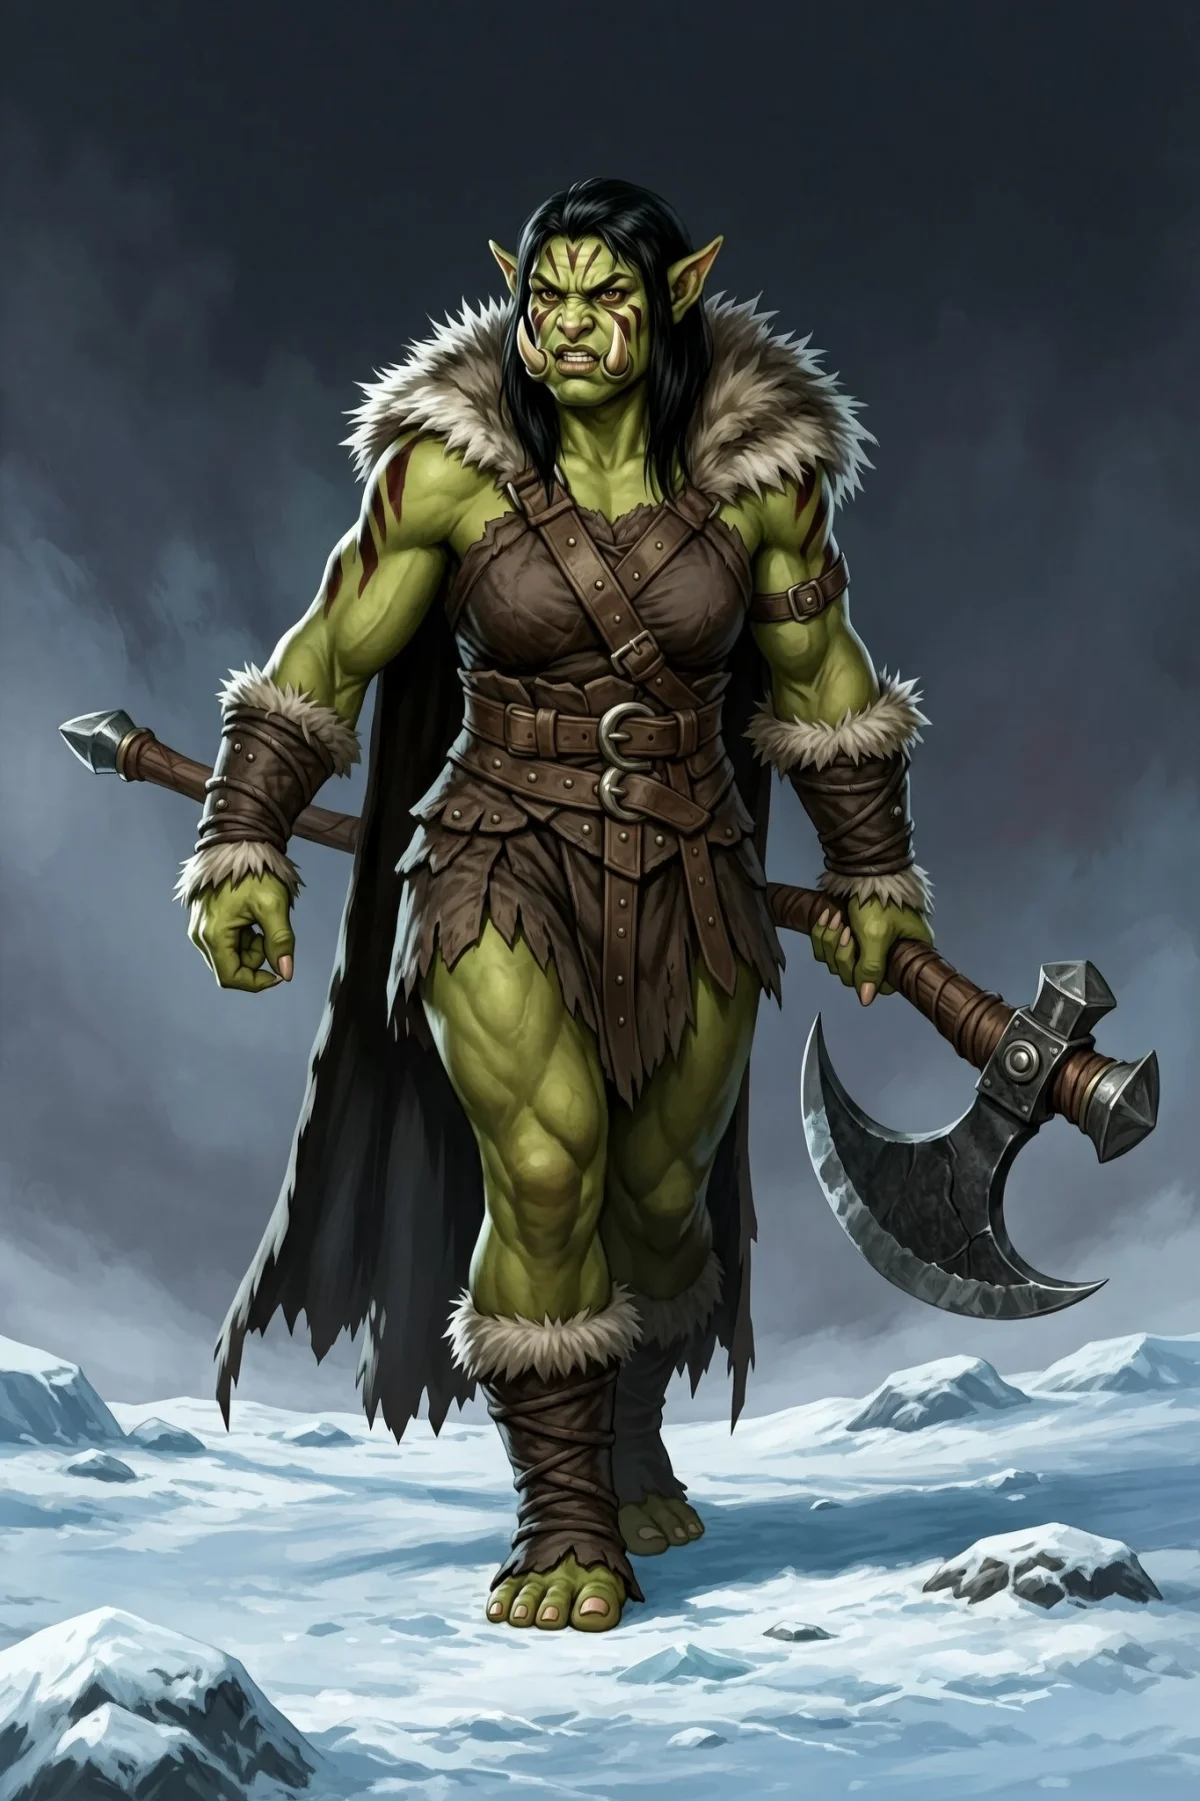
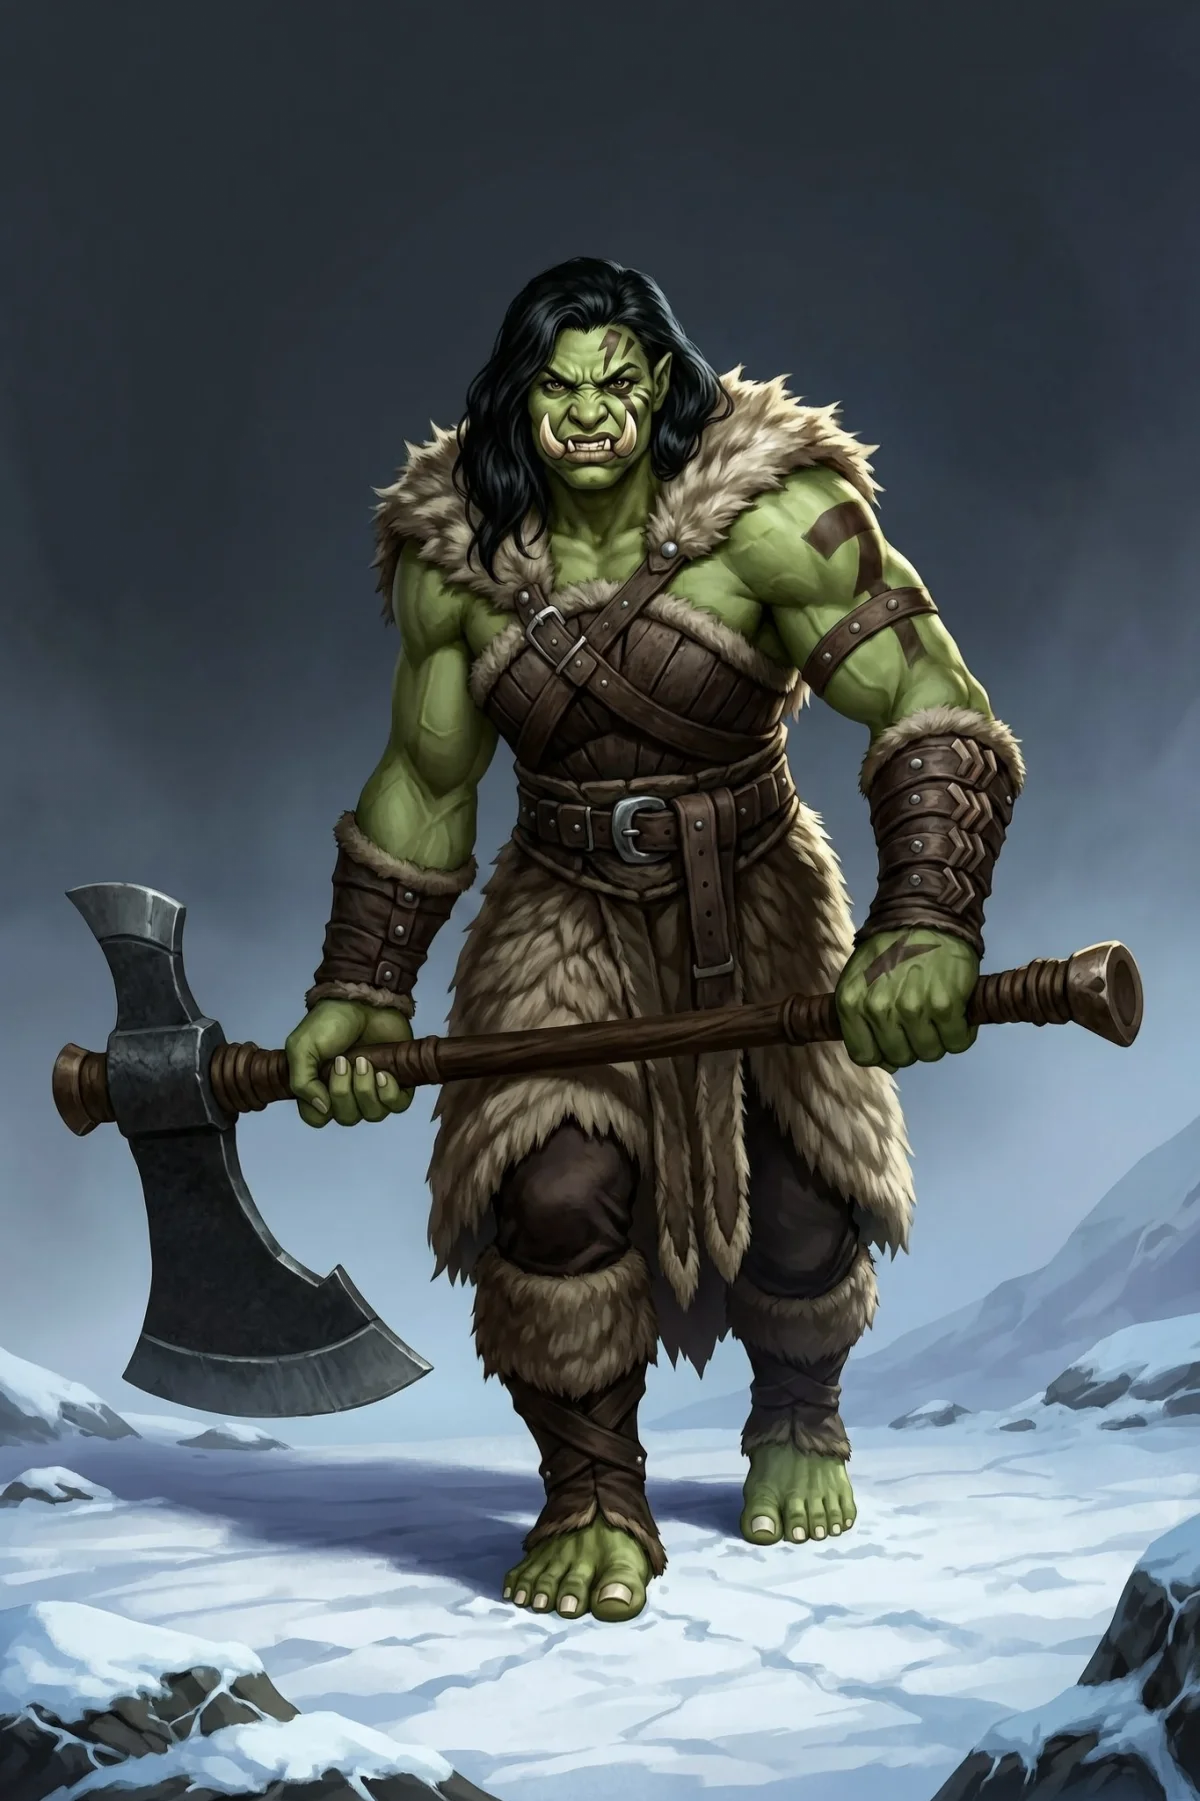
Run 3: Orc Barbarian, fully clothed at last

diff --git a/public/gallery/orc-barbarian/index.html b/public/gallery/orc-barbarian/index.html
@@ -27,8 +27,8 @@
 
   <main class="character">
     <figure class="character-img">
-      <img src="/gallery/img/12-orc-barbarian-full.webp" width="1200" height="1801" alt="AI-generated concept art of a muscular green-skinned orc woman with black hair, tusks and red war paint, wearing fur-trimmed leather and a dark cloak, carrying a double-bladed greataxe across a frozen tundra">
-      <figcaption><a href="/gallery/original/12-orc-barbarian.png">View original file</a> (PNG, 3.6 MB): the full-size image exactly as downloaded from OpenMov, before it was resized for the web.</figcaption>
+      <img src="/gallery/img/12-orc-barbarian-full.webp" width="1200" height="1801" alt="AI-generated concept art of a muscular green-skinned orc woman with long black hair, tusks and war paint, wearing a fur mantle, a leather chest harness and a fur skirt, carrying a double-bladed greataxe barefoot across a frozen tundra">
+      <figcaption><a href="/gallery/original/12-orc-barbarian.png">View original file</a> (PNG, 3.4 MB): the full-size image exactly as downloaded from OpenMov, before it was resized for the web.</figcaption>
     </figure>
 
     <div class="panel character-info">
@@ -39,19 +39,19 @@
       </div>
 
       <h2>How it turned out</h2>
-      <p class="note">Fierce expression, tusks, war paint and a huge double-bladed greataxe against a dark sky. WAN drew the cloak and fur trim well, but the gauntlets became fur-trimmed bracers, and she is striding barefoot across the frozen tundra with her toes in the snow.</p>
+      <p class="note">Third time lucky. The first two run-3 attempts came out bare-chested, ignoring both &#x27;female&#x27; and the leather armour, so the builder&#x27;s Barbarian description now asks for a fully covered torso. This version has the fur mantle, a leather chest harness, tusks, war paint and a huge double-bladed greataxe held across her body. WAN still insisted on bare feet in the snow, as it did in every attempt.</p>
 
       <h2>The prompt</h2>
       <pre class="prompt" id="prompt">Generate an image.
 
 SUBJECT
-An adult, muscular female orc with prominent tusks, a heavy brow, and a broad, powerful build, portrayed as a barbarian, with furs, bare muscular arms, war paint, and a wild, untamed look. A fantasy tabletop RPG character.
+An adult, muscular female orc with prominent tusks, a heavy brow, and a broad, powerful build, portrayed as a barbarian, draped in a heavy fur mantle, torso fully covered by their armour or clothing, with powerful arms, war paint, and a fierce, untamed look. A fantasy tabletop RPG character.
 
 APPEARANCE
 hair: black, eyes: brown, skin: green, expression: fierce.
 
 GEAR
-wearing leather, carrying greataxe, accessories: cloak, gauntlets.
+wearing leather armour, carrying a massive two-handed greataxe with a long haft and a broad, heavy blade, accessories: cloak, gauntlets.
 
 SCENE
 Framing: full-body shot, the entire character visible from head to toe. Pose: mid-action. Setting: frozen tundra. Lighting: dramatic side light.
@@ -65,7 +65,7 @@ A single character, clearly the focus of the image. Correct anatomy with natural
         <a class="button" href="/?ruleset=Generic+Fantasy&amp;ancestry=Orc&amp;class=Barbarian&amp;gender=Female&amp;age=Adult&amp;build=Muscular&amp;hair=Black&amp;eyes=Brown&amp;skin=Green&amp;expression=Fierce&amp;weapon=Greataxe&amp;armour=Leather&amp;accessories=Gauntlets%2CCloak&amp;framing=Full+body&amp;setting=Frozen+tundra&amp;lighting=Dramatic+side+light&amp;pose=Mid-action&amp;style=Digital+concept+art&amp;target-model=Most+models+%28GPT+Image%2C+Seedream%2C+etc.%29">Try this character</a>
         <button type="button" id="copy-prompt">Copy prompt</button>
       </div>
-      <p class="builder-note">The builder has been improved since this image was made, so these settings now give a slightly different prompt from the one shown above.</p>
+
 
       <h2>Builder settings</h2>
       <dl class="settings">

diff --git a/public/gallery/index.html b/public/gallery/index.html
@@ -55,7 +55,7 @@
     <a class="card" href="/gallery/tengu-alchemist/" data-family="Qwen"><img src="/gallery/img/09-tengu-alchemist-600.webp" width="600" height="901" alt="AI-generated ink-and-wash illustration of a crow-like tengu alchemist with glossy black and blue feathers, amber eyes and brass goggles, wearing a leather vest with potion vials and holding a smoking flask in ruined city streets" loading="lazy"><span class="card-body"><span class="card-title">Tengu Alchemist</span><span class="chips"><span class="chip model">Qwen Image Pro</span><span class="chip">Ink and wash</span></span></span></a>
     <a class="card" href="/gallery/lizardfolk-ranger/" data-family="WAN"><img src="/gallery/img/10-lizardfolk-ranger-600.webp" width="600" height="901" alt="AI-generated illustration of a green-scaled lizardfolk ranger with gold eyes and a long tail, wearing a hood and studded leather armour, holding a longbow in a wary half-crouch beside a misty swamp" loading="lazy"><span class="card-body"><span class="card-title">Lizardfolk Ranger</span><span class="chips"><span class="chip model">WAN 2.7 Pro</span><span class="chip">Painterly fantasy illustration</span></span></span></a>
     <a class="card" href="/gallery/undead-wizard/" data-family="Seedream"><img src="/gallery/img/11-undead-wizard-600.webp" width="600" height="898" alt="AI-generated dark fantasy painting of a gaunt undead wizard with glowing white eyes, grey skin and long white hair, wearing a circlet and embroidered vestments, raising a clawed hand among glowing runes in a stone dungeon" loading="lazy"><span class="card-body"><span class="card-title">Undead Wizard</span><span class="chips"><span class="chip model">Seedream 5 Pro</span><span class="chip">Dark fantasy painting</span></span></span></a>
-    <a class="card" href="/gallery/orc-barbarian/" data-family="WAN"><img src="/gallery/img/12-orc-barbarian-600.webp" width="600" height="901" alt="AI-generated concept art of a muscular green-skinned orc woman with black hair, tusks and red war paint, wearing fur-trimmed leather and a dark cloak, carrying a double-bladed greataxe across a frozen tundra" loading="lazy"><span class="card-body"><span class="card-title">Orc Barbarian</span><span class="chips"><span class="chip model">WAN 2.7 Pro</span><span class="chip">Digital concept art</span></span></span></a>
+    <a class="card" href="/gallery/orc-barbarian/" data-family="WAN"><img src="/gallery/img/12-orc-barbarian-600.webp" width="600" height="901" alt="AI-generated concept art of a muscular green-skinned orc woman with long black hair, tusks and war paint, wearing a fur mantle, a leather chest harness and a fur skirt, carrying a double-bladed greataxe barefoot across a frozen tundra" loading="lazy"><span class="card-body"><span class="card-title">Orc Barbarian</span><span class="chips"><span class="chip model">WAN 2.7 Pro</span><span class="chip">Digital concept art</span></span></span></a>
     <a class="card" href="/gallery/dwarf-warrior-miniature/" data-family="Seedream"><img src="/gallery/img/13-dwarf-warrior-miniature-600.webp" width="600" height="898" alt="AI-generated image of a painted tabletop miniature of a bald dwarf warrior with a braided ginger beard, dark full plate armour, a cloak and brown tabard and a tall two-handed greataxe, on a round base in front of a burning ruined city" loading="lazy"><span class="card-body"><span class="card-title">Dwarf Warrior Miniature</span><span class="chips"><span class="chip model">Seedream 5 Pro</span><span class="chip">Painted miniature</span></span></span></a>
   </div>
 
